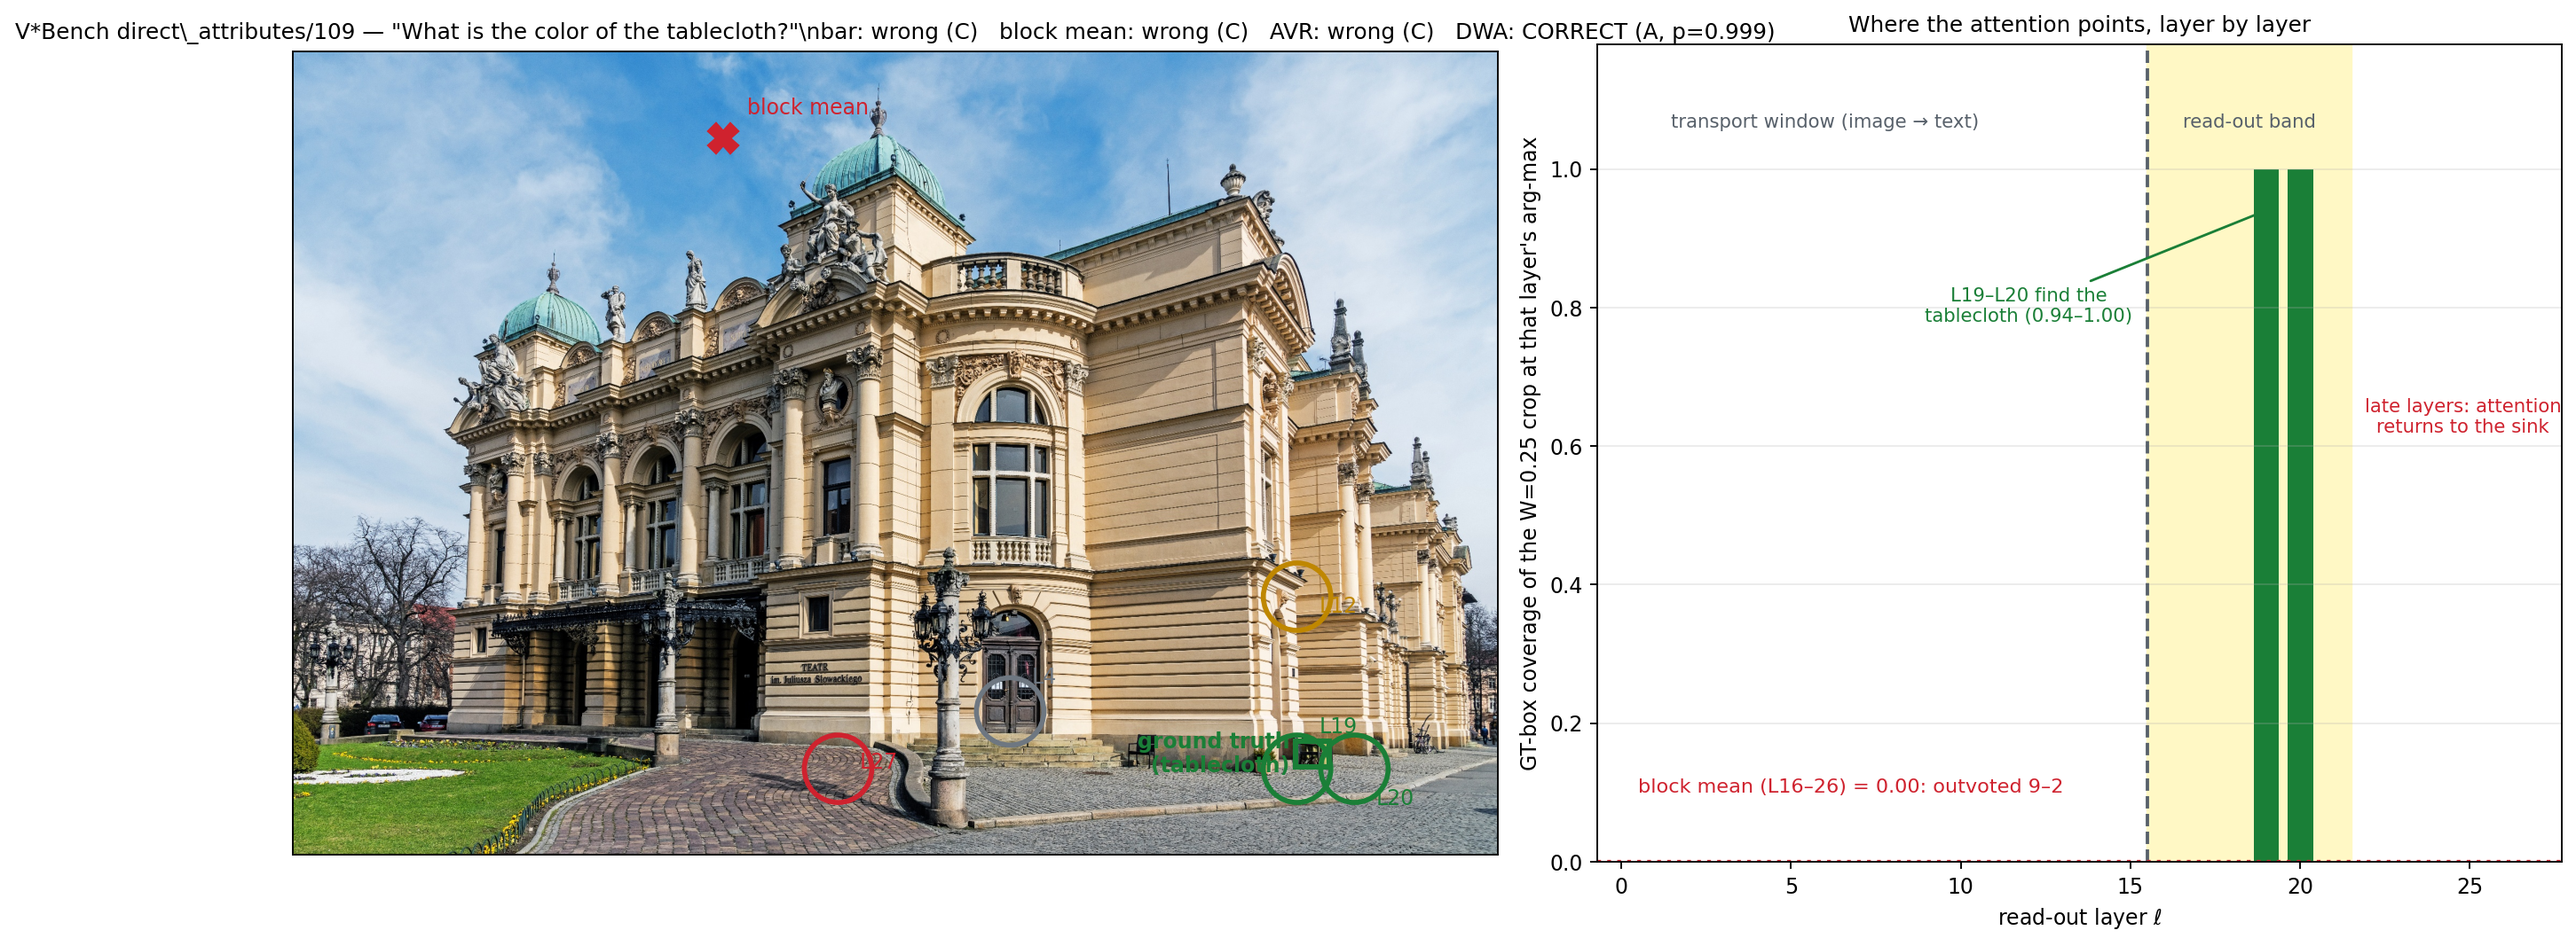
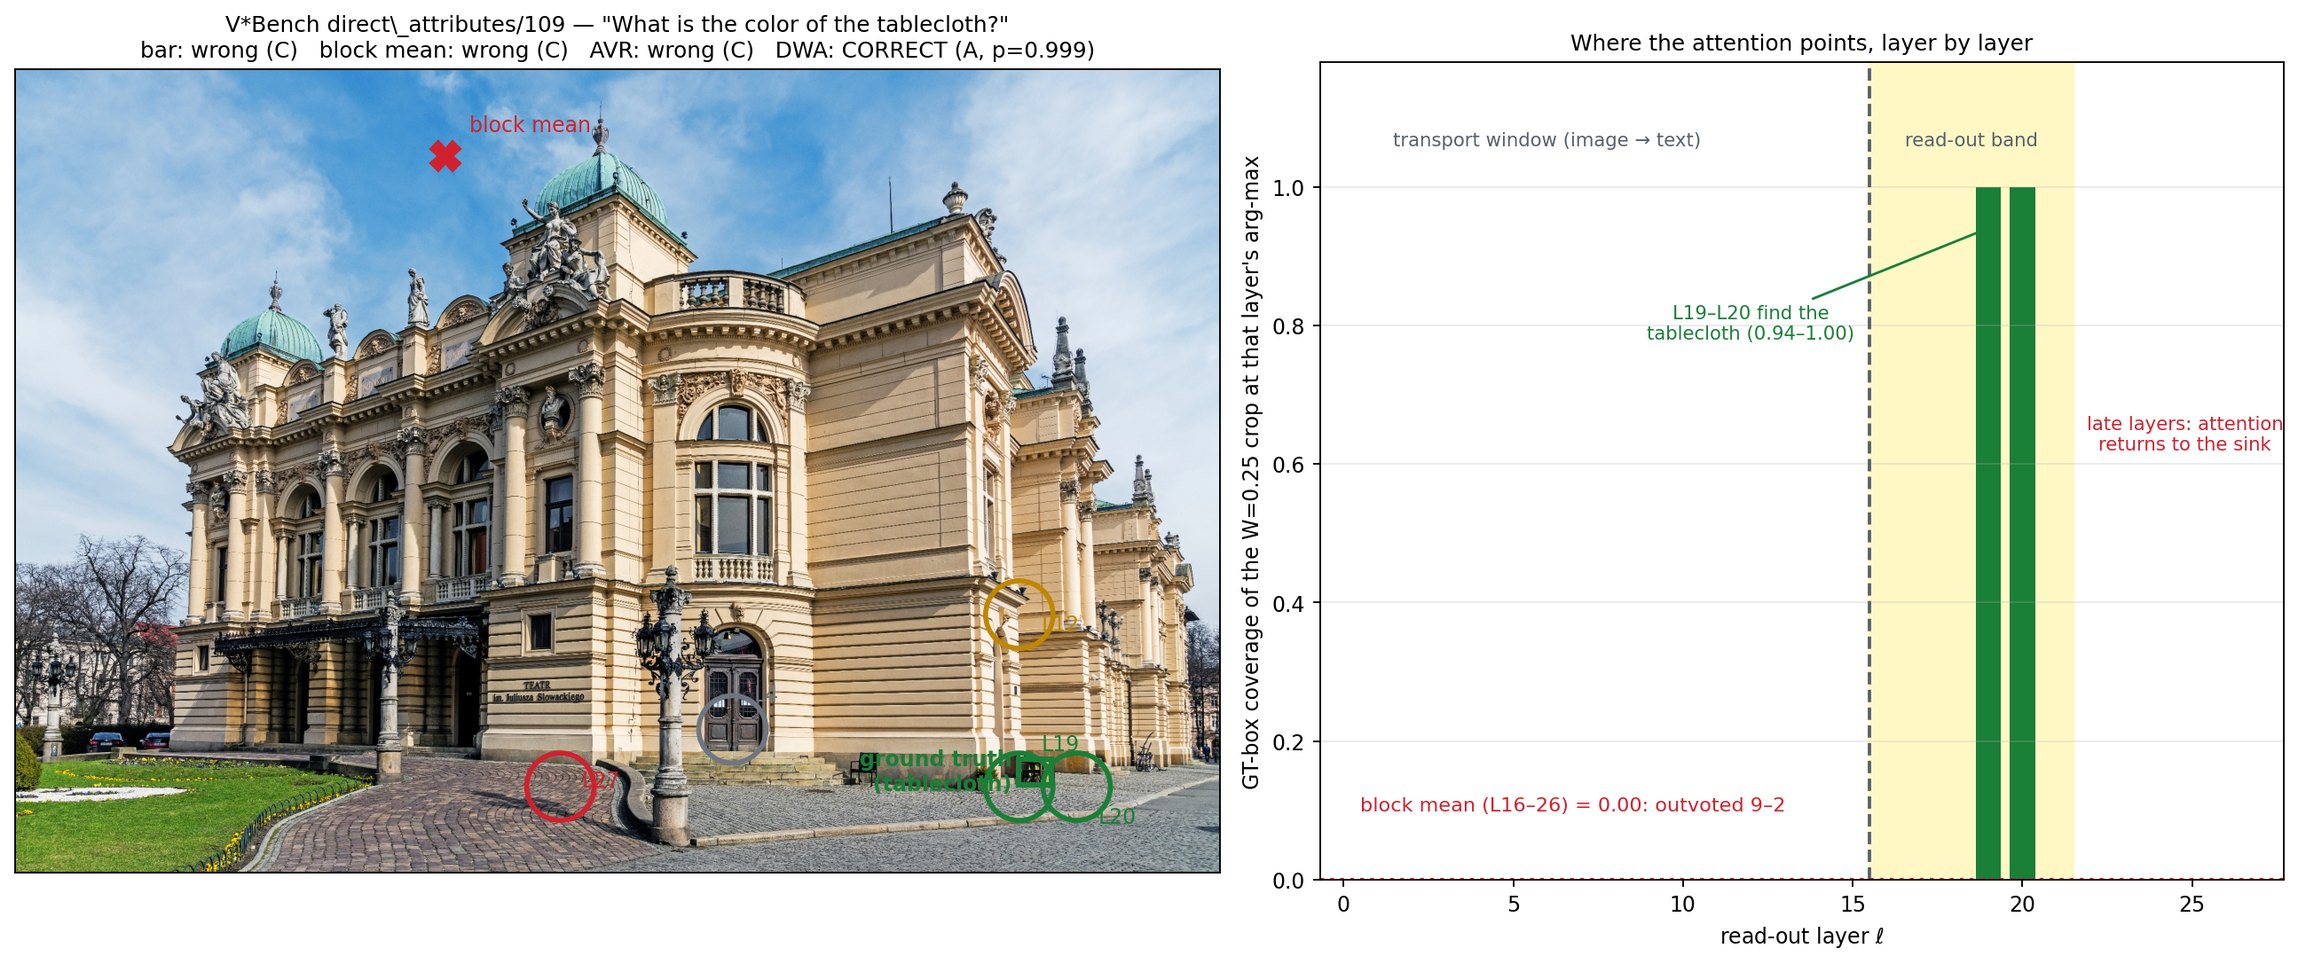
fig: fix the example title newline

diff --git a/scripts/fig_example_layers.py b/scripts/fig_example_layers.py
@@ -27,7 +27,7 @@ for l, col, lab in [(4, "#6e7781", "L4"), (12, "#bf8700", "L12"), (19, "#1a7f37"
 rb, cb_ = d["block_cell"]
 ax.plot([(cb_ + .5) / gw * iw], [(rb + .5) / gh * ih], marker="X", ms=14, color="#cf222e", zorder=7)
 ax.text((cb_ + .5) / gw * iw + 0.02 * iw, (rb + .5) / gh * ih - 0.03 * ih, "block mean", color="#cf222e", fontsize=10, zorder=7)
-ax.set_title(r'V*Bench direct\_attributes/109 — "What is the color of the tablecloth?"\n'
+ax.set_title('V*Bench direct\\_attributes/109 — "What is the color of the tablecloth?"\n'
              'bar: wrong (C)   block mean: wrong (C)   AVR: wrong (C)   DWA: CORRECT (A, p=0.999)', fontsize=10.5)
 
 ax = axes[1]
